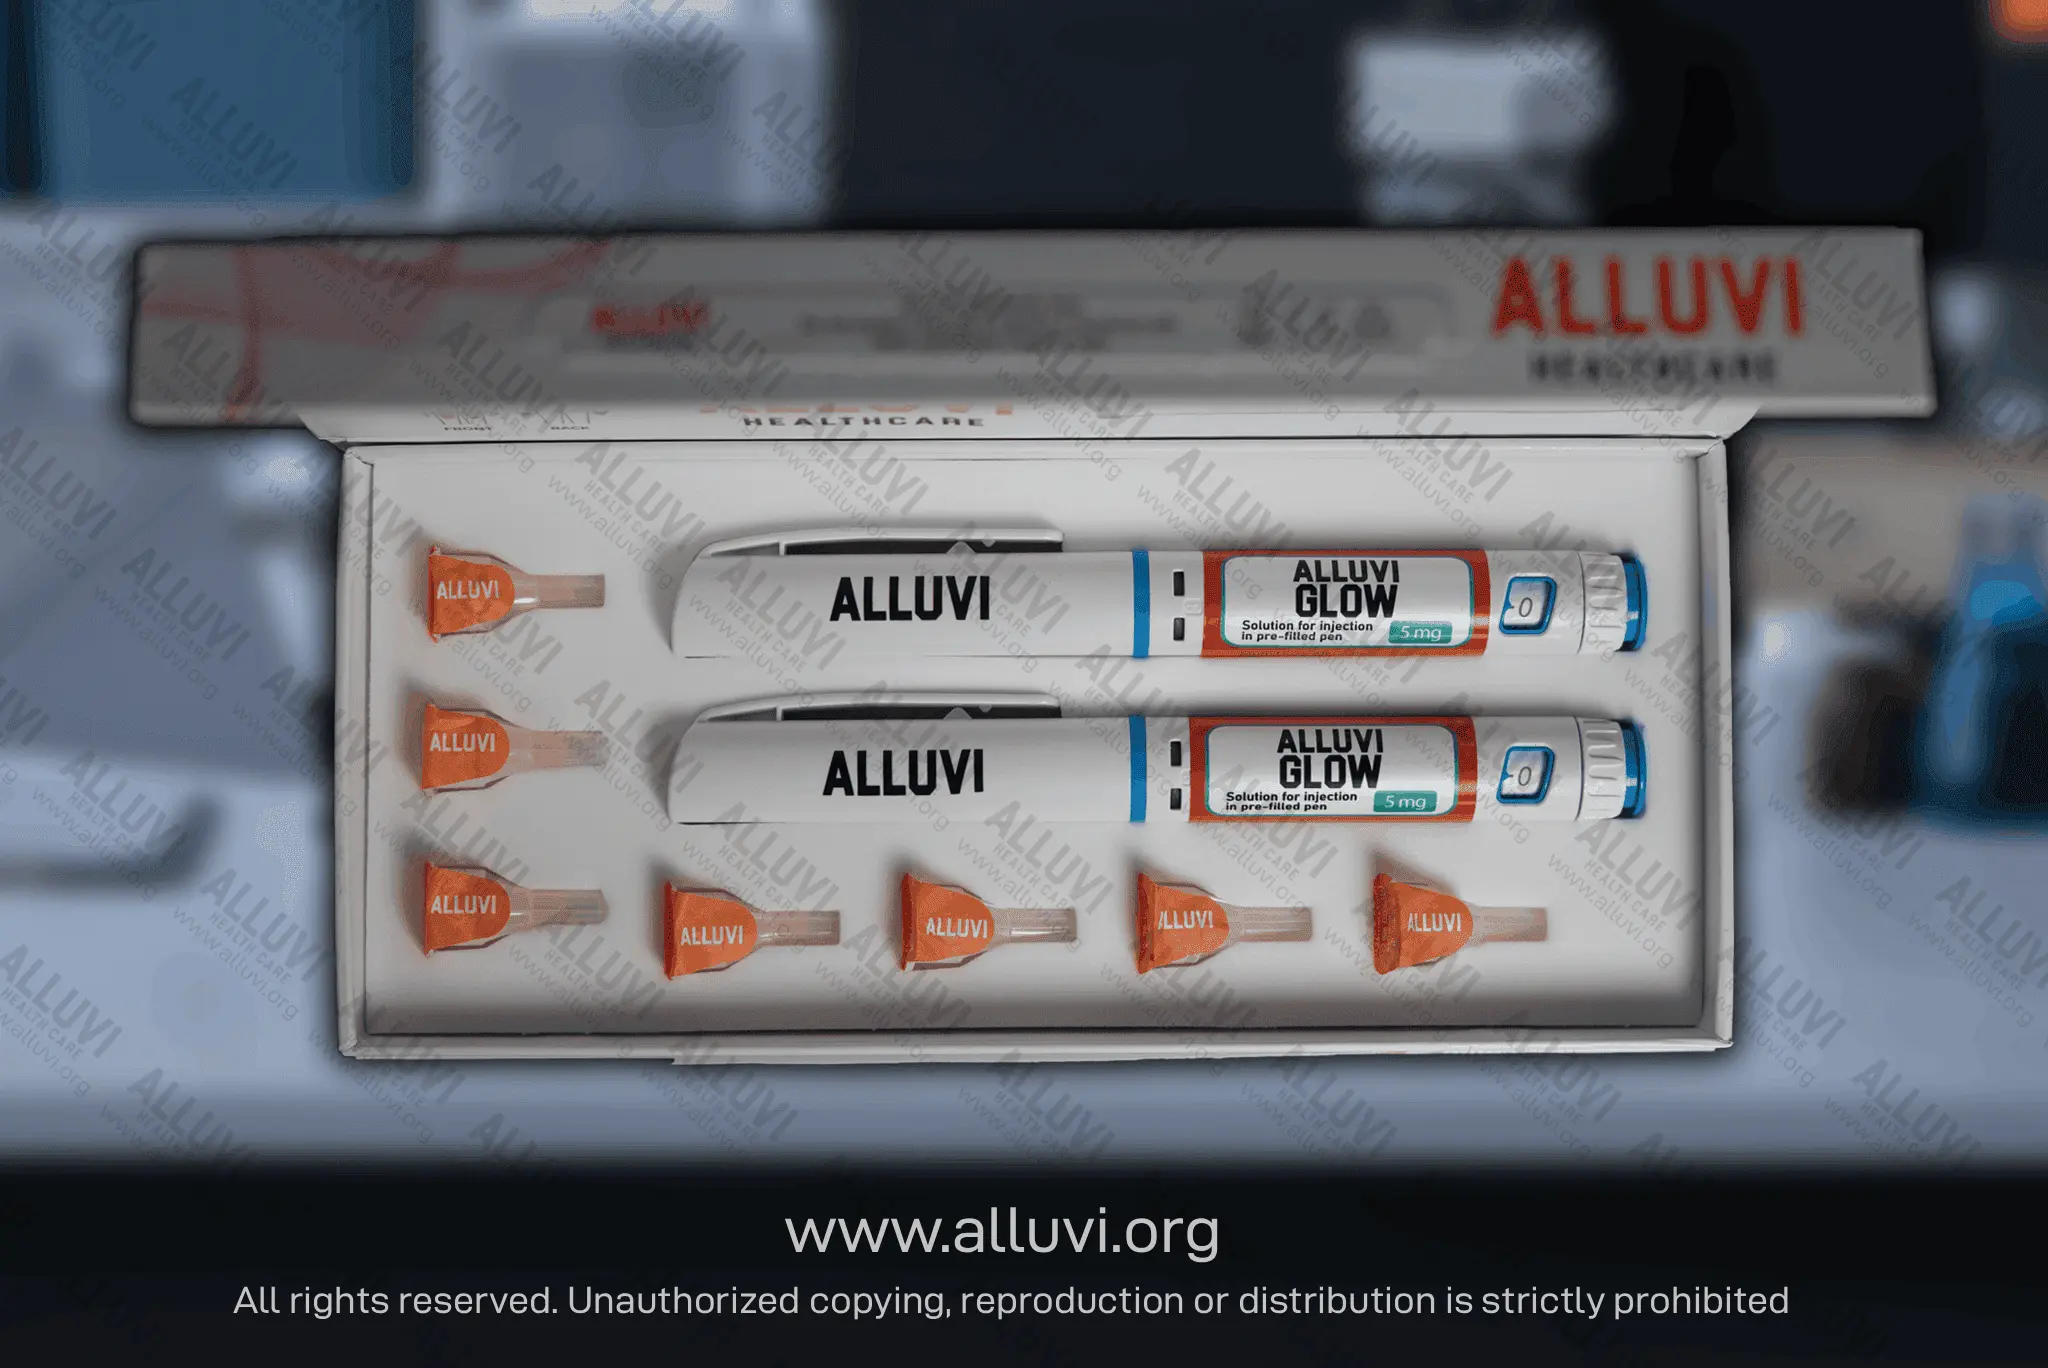
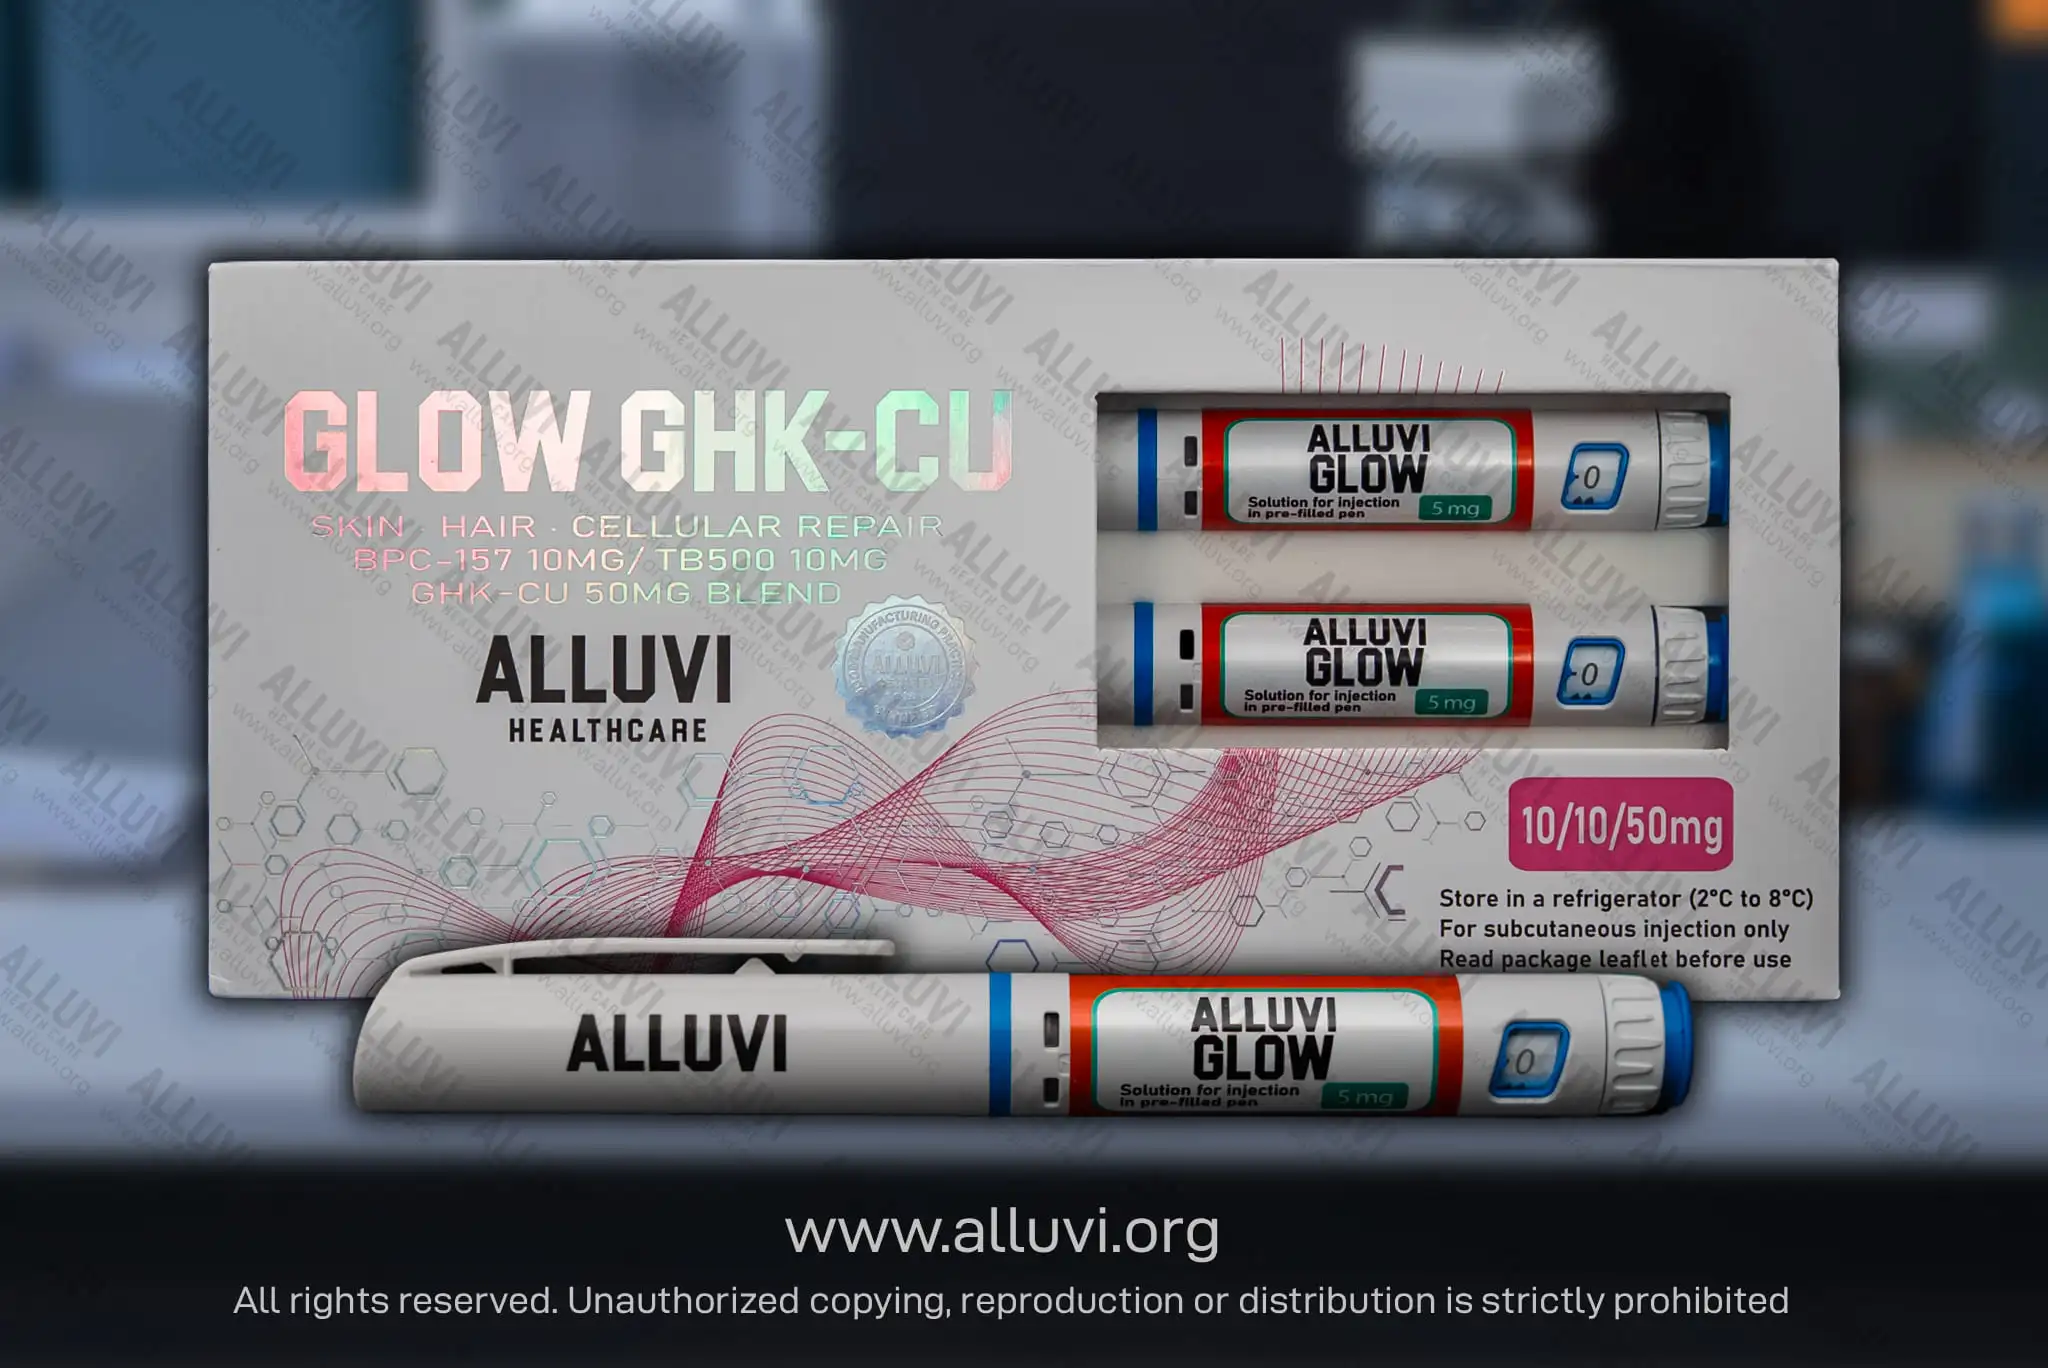
image chnages

diff --git a/changes/changes.md b/changes/changes.md
@@ -1,3 +1,4 @@
+
 # Changes log
 
 A running history of every change made to this project, newest section last.
@@ -77,218 +78,3 @@ _Commit `<pending>` — "Add cart drawer and search overlay"_
 26. Both overlays: close on backdrop click, on `Escape`, and on route change;
     page scroll (Lenis + native) is locked while open. Opening one closes the
     other. Added a shared `useLockScroll` hook.
-
-## 5. Modular image system
-
-_Commit `<pending>` — "Add modular image system"_
-
-27. **New `src/images/` folder** with one subfolder per section
-    (`logo/`, `hero/`, `about/`, `products/`, `testimonials/`) — the single
-    place to drop real photos. Replaced the old root `assets/` folder.
-28. **Auto-detect** — `src/lib/images.ts` picks up every file under
-    `src/images/` automatically; look up by `folder/name` with no extension.
-    Drop a file, save, it appears — no code editing, and `.jpg`/`.png`/`.webp`
-    etc. all work.
-29. **`Img` component** — shows the real photo if its file exists, otherwise
-    falls back to the sized placeholder (or nothing, for the hero background).
-    Wired into Hero, About, product cards, the product page, testimonials,
-    and the search results.
-30. **`Logo` component** — uses `src/images/logo/logo.*` if present, else the
-    "LUMA" wordmark; shared by the header, footer, and search bar.
-31. **`src/images/README.md`** — lists exactly which file name goes in which
-    folder.
-
-## 6. Dummy images placed in every photo slot
-
-_Commit `<pending>` — "Place dummy images in all photo slots"_
-
-32. Copied one of the uploaded product images into **every photo slot** so the
-    site looks complete; each is a stand-in to be swapped for the real photo.
-33. **Self-describing file names** — each dummy is named after the exact slot
-    it fills, so it is obvious what to replace:
-    - `hero/home-hero-product-image`, `hero/home-hero-background-image`
-    - `about/home-about-large-image`, `about/home-about-small-image`
-    - `testimonials/home-testimonial-{michael-reed,emily-carter,sofia-bennett}`
-    - `products/<product-name>` for all 8 products
-34. Updated the `Img` references in code to the new names — a one-time change
-    so no code editing is ever needed again; replacing a photo is now purely
-    "drop file in folder with the same name".
-35. **Logo** kept as the "LUMA" wordmark (no dummy) — slot renamed to
-    `logo/site-logo`; add that file anytime to switch to a real logo.
-36. Rewrote `src/images/README.md` with the new names and the replace steps.
-
-## 7. Hero — background image & rotated product
-
-_Commit `<pending>` — "Show hero background image, rotate hero product"_
-
-37. **`home-hero-background-image`** now fills the entire Home (hero) section
-    as its background. The bug: the background layer used a negative
-    `z-index` (`-z-10`) which hid it behind an opaque surface — fixed by
-    layering it at `z-0` with the hero content at `z-10`.
-38. Replaced the heavy dark overlay with a light gradient (top + left fade
-    only) so the background photo stays clearly visible while the heading
-    text remains readable.
-39. **`home-hero-product-image`** is now rotated 90° to the right, kept in
-    the same position as before.
-
-## 8. Features row — added image tile
-
-_Commits `976b430`, `<pending>` — "Add image tile to features row"_
-
-40. Added a **4th cell** to the Features row (below the hero), on the far
-    right — an image tile holding `src/images/extra/E_1.webp`.
-41. The features grid is now 4-up on large screens (`grid-cols-1` →
-    `sm:grid-cols-2` → `lg:grid-cols-4`).
-42. The image tile is the **same dimensions as the three feature cards**
-    (matching width and full height), and gently zooms on hover.
-
-## 9. Hero — product image uses its natural dimensions
-
-_Commit `<pending>` — "Use natural dimensions for hero product image"_
-
-43. Removed the forced `3/4` aspect ratio on `home-hero-product-image` —
-    the image now displays at its **own natural dimensions** (uncropped),
-    still rotated 90° to the right.
-44. Increased the hero product image size (`max-w-sm` → `max-w-lg`),
-    keeping the same aspect ratio.
-45. Zoomed the image **inside** the hero product rectangle a little more
-    (`scale-[1.12]`) — the frame size stays the same; the image is scaled
-    up and clipped by an `overflow-hidden` rounded frame.
-
-## 10. About Us — decluttered image layout
-
-_Commit `<pending>` — "Rearrange About Us images"_
-
-46. Removed the overlapping absolute-positioned layout in the About Us
-    section that left images clustered and on top of the headline.
-47. The **big image** now sits far left, cleanly **below** the "ABOUT US"
-    headline (negative margin removed).
-48. The **two rectangles** (the `1+` counter and the small image) are now
-    stacked neatly to the **right of the big image** — no overlaps.
-
-## 11. About Us — split stat tile, count, motion & glow
-
-_Commit `<pending>` — "Split About stat tile, add motion/glow/shine"_
-
-49. Split the `1+ High-Purity Research Peptides` rectangle into **two
-    smaller tiles** in the same space: the counter on the left and an
-    image tile on the right (new slot `about/home-about-stat-image`).
-50. Changed the counter from `1+` to **`25+`**.
-51. Added a **clutter → spread** entrance: the four tiles start clustered
-    and rotated, then spring out and align into place on scroll-in.
-52. Added a pulsing **glow** (`animate-glow` keyframe) and a sweeping
-    **shine** highlight on every tile.
-
-## 12. About Us — clockwise image cycling
-
-_Commit `<pending>` — "Cycle About images clockwise through the tiles"_
-
-53. The three **image tiles** (big, top-right, bottom-right) now keep
-    their fixed shape, size and position, while the three images
-    continuously **travel clockwise** from one tile to the next, non-stop.
-54. Each swap slides the outgoing image out and the incoming image in
-    along the clockwise direction (every ~2.8s). The `25+` counter tile
-    is excluded — it stays fixed.
-55. Cycling is paused for users with reduced-motion enabled.
-
-## 13. About Us — video in the cycling tiles
-
-_Commit `<pending>` — "Support video media; use video.mp4 in About"_
-
-56. The media system now also detects **video files** (`.mp4`, `.webm`,
-    `.mov`); the `Img` component renders an autoplaying, muted, looping
-    `<video>` for them.
-57. Replaced the About `home-about-large-image` photo with
-    `src/images/about/video.mp4` — the video now cycles clockwise through
-    the About tiles alongside the two images.
-
-## 14. Our Products — content moved below the headline
-
-_Commit `<pending>` — "Move Products content below the headline"_
-
-58. Removed the negative margin so the Products heading, "View All
-    Products" link, and product grid sit cleanly **below** the
-    "OUR PRODUCTS" headline instead of overlapping it.
-59. Changed the product-card image box from a tall `4/5` portrait to a
-    wider, shorter `4/3` landscape so the product images fit better
-    (applies to the home grid and the Shop page).
-
-## 15. Fix — cart drawer / search overlay not covering the page
-
-_Commit `<pending>` — "Portal cart & search overlays to body"_
-
-60. **Bug:** the cart drawer (and search overlay) were rendered inside
-    `<header>`. Once scrolled, the header gains `backdrop-blur`, and a
-    `backdrop-filter` makes that element the containing block for its
-    `fixed` children — so the overlays were sized to the 84px header
-    instead of the viewport, leaving the page unmasked.
-61. **Fix:** both overlays now render through a React **portal to
-    `document.body`**, escaping the header. They cover the full viewport
-    again — the panel masks its side and the backdrop dims the page.
-
-## 16. Product cards — 3D tilt
-
-_Commit `<pending>` — "Add 3D tilt to product cards"_
-
-62. Product cards are now **3D tilt cards** — they lean toward the cursor
-    with a springy `rotateX`/`rotateY` motion and real perspective
-    (built with Motion's motion values + springs).
-63. A **glare** light-spot follows the pointer across the card.
-64. The card **edges shine** — a glowing inset rim lights up on hover,
-    plus a soft depth shadow.
-
-## 17. Help CTA — full-bleed background image
-
-_Commit `<pending>` — "Add full-bleed background to Help CTA section"_
-
-65. Added `src/images/extra/E_2.jpg` as a **full-bleed background image**
-    across the whole "Let's Talk To / Get Instant Help" section
-    (matching the reference site).
-66. The CTA card is now a translucent dark panel on top of the photo;
-    a darkening overlay plus top/bottom fades keep the heading readable
-    and blend the section into the black sections above and below.
-
-## 18. Why Us — flip circles
-
-_Commit `<pending>` — "Add flip circles to the Why Us section"_
-
-67. Added the **four flip circles** to the Why Us section (matching the
-    reference): Consistent Results, Verified Purity, Reliable Service,
-    Quick Support — replacing the old stats row.
-68. Each circle is an outlined ring showing the title; on hover it
-    **flips in 3D** to a white circle revealing the description.
-69. Circle copy was read from the reference site with Playwright.
-
-## 19. Get in Touch — recreated in black & white
-
-_Commit `<pending>` — "Rebuild the Get in Touch section"_
-
-70. Rebuilt the Contact section as a **"Get in Touch"** block matching the
-    reference layout: a panel with the big heading, contact details
-    top-right, a short paragraph and a "Chat With Us" button, above a
-    full-width banner image.
-71. Rendered in **black & white** (the reference uses sky-blue) — a white
-    panel with black text/button, and `src/images/extra/E_3` shown as a
-    **grayscale** banner.
-72. Replaced the previous two-column contact + message-form layout.
-
-## 20. Get in Touch — refinements
-
-_Commit `<pending>` — "Refine the Get in Touch section"_
-
-73. The banner image is now shown in **colour** (removed the grayscale).
-74. The section is **full screen width** — the white panel and image span
-    edge to edge, no left/right gaps.
-75. The "Get in Touch" heading now uses the **same font treatment as the
-    other section headings** (Clash Display, medium weight, mixed case).
-
-## 21. Product page — modular gallery thumbnails
-
-_Commit `<pending>` — "Add product-gallery image folder & thumbnails"_
-
-76. Added a new **`src/images/product-gallery/`** folder holding the
-    **4 thumbnail images per product** — 32 files in total, named
-    `<product>_1` … `<product>_4`.
-77. The product page's 4 thumbnails now read from that folder; clicking a
-    thumbnail **swaps the main image**. Each of the 32 images can be
-    replaced modularly, like every other image slot.